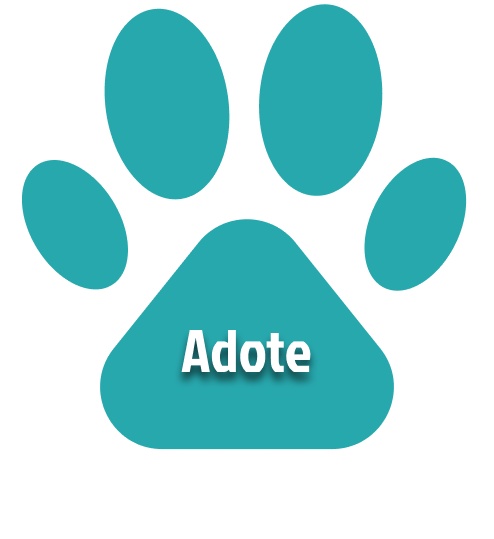
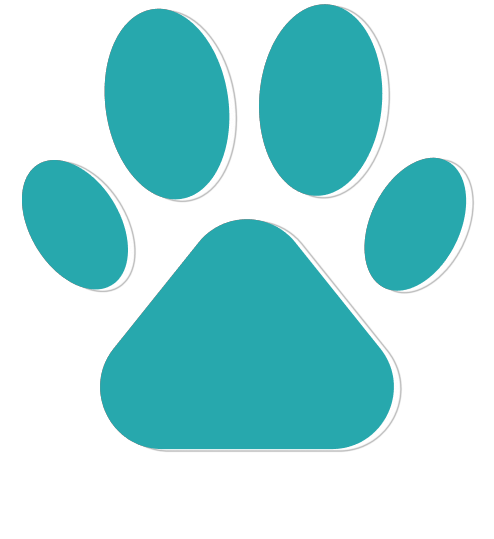
feature(componente)criado componente card-patas

diff --git a/src/app/pages/inicial/index.html b/src/app/pages/inicial/index.html
@@ -6,19 +6,14 @@
   <meta name="viewport" content="width=device-width, initial-scale=1.0">
   <title>Inicio</title>
   <link rel="stylesheet" href="https://cdnjs.cloudflare.com/ajax/libs/font-awesome/6.5.0/css/all.min.css">
-
   <link rel="stylesheet" href="../../../styles/style.css">
   <link rel="stylesheet" href="style.css">
-</head>
+</head>]
 
 <body>
-
   <header class="cabecalho"><div>
     <cabecalho-component></cabecalho-component>
-
   </div>
- 
-
     <section>
         <h1>"Doe esperanças, doe para salvar vidas."</h1>
         <a href="../formulario-castracao/index.html">
@@ -26,12 +21,6 @@
         </a>
     </section>
   </header>
- 
-  <!-- O card de animal será inserido aqui dinamicamente pelo componente -->
-   <card-animal-component codico="0" nome="Miau" idade="2 anos" especie="gato" sexo="masculino" local="centro" foto="../assets/images/gato1.jpg">
-
-   </card-animal-component>
-
   <section class="sobre-nos">
     <p>
       Nossa ONG sobrevive graças à generosidade de 
@@ -42,28 +31,21 @@
       animais.
     </p>
     <img src="../../../assets/images/gatosobrenos.png" alt="Gato" />
-
   </section>
-
-  
   <section class="ajuda">
     <h2 class="pro-titulo">Quer Ajudar?</h2>
-    <div>
-      <a href="../adocao/index.html" style="align-content: end">
-        <img src="../../../assets/images/botao_adote.png" alt="Adote">
-      </a>
-      <a href="../doacao/index.html" style="align-content: start">
-        <img src="../../../assets/images/botao_doe.png" alt="Doe">
-      </a>
-      <a href="../sobre/index.html" style="align-content: end">
-        <img src="../../../assets/images/botao_voluntario.png" alt="Seja voluntário">
-      </a>
-    </div>
+     <div>
+    <a href="../adocao/index.html">
+      <pata-component img="../../../assets/images/botao_adote.png" text="Adote"></pata-component>
+    </a>
+    <a href="../doacao/index.html" >
+      <pata-component class="pata-alta" img="../../../assets/images/botao_doe.png" text="Doe"></pata-component>
+    </a>
+    <a href="../../pages/sobre/"><pata-component img="../../../assets/images/botao_voluntario.png" text="Seja um voluntário"></pata-component></a>
+  </div>
   </section>
-
   <section class="galeria">
     <h2 class="pro-titulo">Galeria de fotos</h2>
-
     <div>
       <i class="setas fa-solid fa-angle-left" onclick="window.inicialView.botaoAnterior()"></i>
       <div id="colecao-galeria"></div>
@@ -73,8 +55,7 @@
   </section>
 
   
-  <!-- <card-galeria-component codigo="123" foto="../assets/images/gato1.jpg" nome="Miau">
-  </card-galeria-component>  -->
+  
  
   
   <div  style="justify-self: right;">
@@ -84,6 +65,6 @@
   <rodape-component></rodape-component>
 
 </body>
-<script src="inicial.view.js" type="module"></script>
+<script  type="module" src="inicial.view.js"></script>
 
 </html>

diff --git a/src/app/components/card-patas.componente.js b/src/app/components/card-patas.componente.js
@@ -1,0 +1,73 @@
+export class PataComponent extends HTMLElement {
+  constructor() {
+    super();
+    this.attachShadow({ mode: 'open' });
+  }
+
+  static get observedAttributes() {
+    return ['text', 'img', 'size'];
+  }
+
+  attributeChangedCallback() {
+    this.render();
+  }
+
+  connectedCallback() {
+    this.render();
+  }
+
+  render() {
+    const texto = this.getAttribute('text') || '';
+    const img = this.getAttribute('img') || '';
+    const size = this.getAttribute('size') || '220';
+
+    this.shadowRoot.innerHTML = `
+      <style>
+        :host {
+          display: inline-block;
+          cursor: pointer;
+          transition: transform .25s ease;
+        }
+
+        :host(:hover) {
+          transform: scale(1.08);
+        }
+
+        .pata {
+          width: ${size}px;
+          height: ${size * 1.05}px;
+          background-image: url('${img}');
+          background-size: contain;
+          background-repeat: no-repeat;
+          background-position: center;
+          position: relative;
+          display: flex;
+          align-items: flex-end;
+          justify-content: center;
+          font-family: 'Jockey One', sans-serif;
+        }
+
+        .texto {
+          position: absolute;
+          bottom: 28%;
+          width: 65%;
+          text-align: center;
+          color: #fff;
+          font-size: 1.4rem;
+          line-height: 1.1;
+          pointer-events: none;
+          word-break: break-word;
+          text-shadow: 0 2px 6px rgba(0,0,0,.4);
+        }
+      </style>
+
+      <div class="pata">
+        <div class="texto">${texto}</div>
+      </div>
+    `;
+  }
+}
+
+if (!customElements.get('pata-component')) {
+  customElements.define('pata-component', PataComponent);
+}

diff --git a/src/app/pages/inicial/style.css b/src/app/pages/inicial/style.css
@@ -80,33 +80,16 @@
     background-size: inherit;
     background-position: center;
     background-repeat: repeat;
-    
-    > div {
-      display: flex;
-      height: 400px;
-      justify-content: center;
-      flex-wrap: wrap;
-      gap: 40px;
-      margin-top: 20px;
-
-      a {
-        text-align: center;
-        text-decoration: none;
-        color: white;
-        transition: transform 0.2s;
-
-        img {
-          max-width: 200px;
-        }
-
-      }
-
-      a:hover {
-          transform: scale(1.1);
-      }
-    }
-  
   }
+    
+  /* ...existing code... */
+
+.pata-alta {
+  position: relative;      /* tira o absolute */
+ margin-bottom: 10%;
+}
+
+
 
   .galeria {
     text-align: center;

diff --git a/src/app/pages/inicial/inicial.view.js b/src/app/pages/inicial/inicial.view.js
@@ -1,7 +1,8 @@
 import { CabecalhoComponent } from '../../components/cabecalho.component.js';
 import { RodapeComponent } from '../../components/rodape.component.js';
+// Importamos a classe do arquivo que acabamos de criar
+import { PataComponent } from '../../components/card-patas.componente.js';
 import { CardGaleriaComponent } from "../../components/card-galeria.component.js";
-import { CardAnimalComponent } from "../../components/card.animal.componente.js";
 import { GaleriaUsecase } from '../../use-case/galeria.usecase.js';
 import { AnimaisUsecase } from '../../use-case/animais.usecase.js';
 
